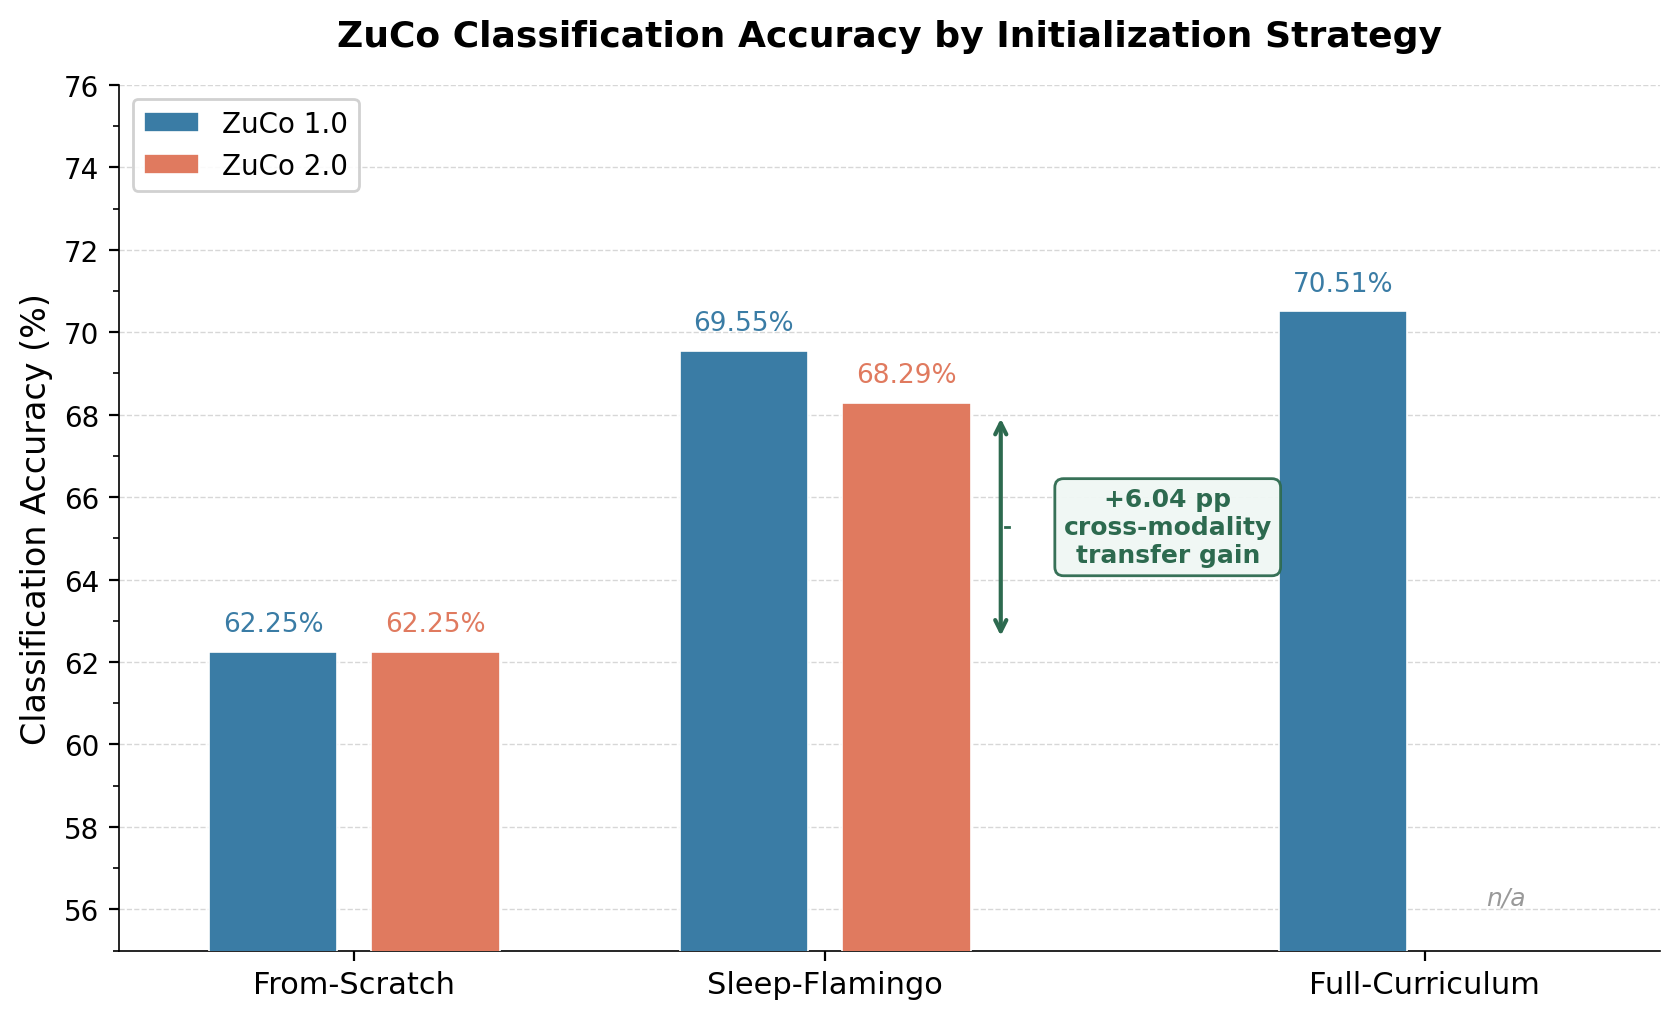
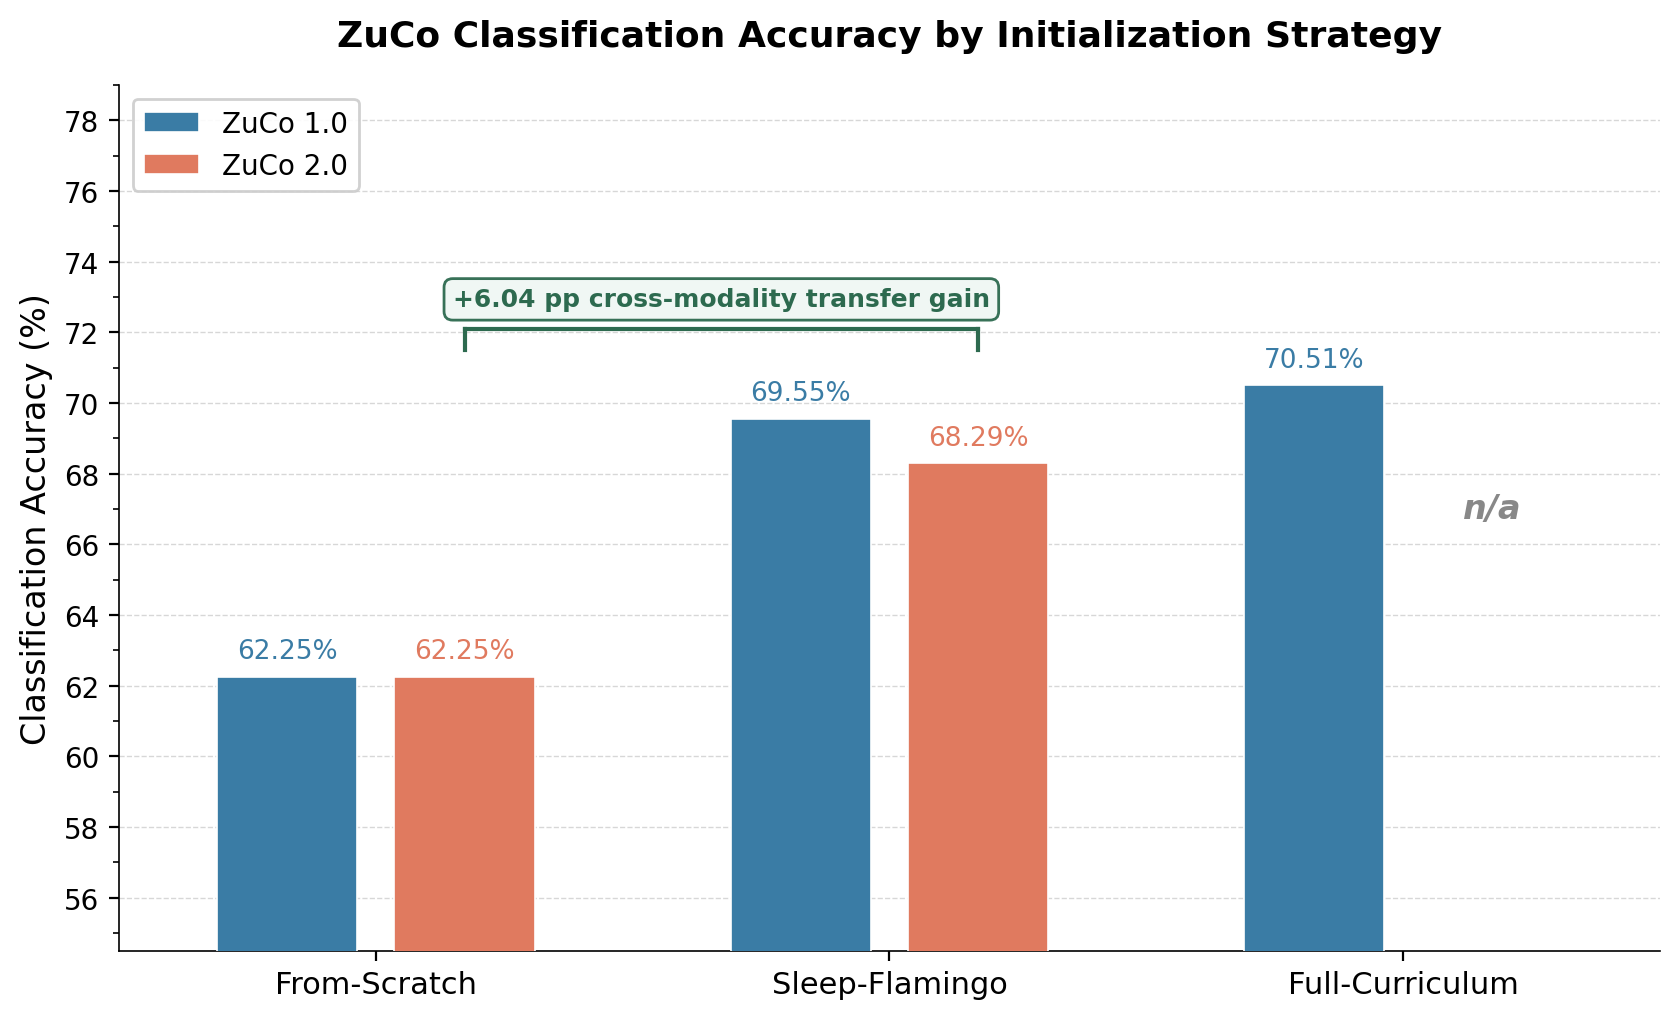
Fix figures after review for conll

diff --git a/conll/paper1_fig1.py b/conll/paper1_fig1.py
@@ -16,7 +16,7 @@ zuco2 = [62.25, 68.29, None]    # ZuCo 2.0 accuracy (%)
 
 # ---------- plot setup ----------
 # Use wider spacing between groups by setting x positions manually
-x = np.array([0.0, 1.1, 2.5])   # extra gap before Full-Curriculum for annotation room
+x = np.array([0.0, 1.1, 2.2])   # evenly spaced groups
 n = len(strategies)
 
 fig, ax = plt.subplots(figsize=(8.5, 5.2), dpi=200)
@@ -63,34 +63,34 @@ for i, v in enumerate(zuco2):
         label_bar(x[i] + bar_w / 2 + gap, v, c2)
 
 # ---------- annotate the +6.04 pp transfer gain ----------
-sf_bar_x = x[1] + bar_w / 2 + gap   # sleep-flamingo ZuCo 2.0 bar center x
-fs_y = zuco2[0]                       # from-scratch  = 62.25
-sf_y = zuco2[1]                       # sleep-flamingo = 68.29
-mid_y = (fs_y + sf_y) / 2
+# Compare ZuCo 2.0 From-Scratch (62.25%) vs ZuCo 2.0 Sleep-Flamingo (68.29%)
+fs_bar_x = x[0] + bar_w / 2 + gap    # from-scratch ZuCo 2.0 bar center x
+sf_bar_x = x[1] + bar_w / 2 + gap    # sleep-flamingo ZuCo 2.0 bar center x
+fs_y = zuco2[0]                        # from-scratch  = 62.25
+sf_y = zuco2[1]                        # sleep-flamingo = 68.29
+mid_x = (fs_bar_x + sf_bar_x) / 2     # midpoint between the two bars
 
-# Vertical double-headed arrow just right of the sleep-flamingo ZuCo 2.0 bar
-arrow_x = sf_bar_x + bar_w / 2 + 0.07
-ax.annotate(
-    "", xy=(arrow_x, sf_y - 0.25), xytext=(arrow_x, fs_y + 0.25),
-    arrowprops=dict(arrowstyle="<->", lw=1.5, color=c_gain),
-    zorder=5,
-)
+# Horizontal bracket connecting the tops of the two ZuCo 2.0 bars
+bracket_y = sf_y + 3.8   # above both bars and value labels
+# Draw horizontal line
+ax.plot([fs_bar_x, sf_bar_x], [bracket_y, bracket_y],
+        lw=1.5, color=c_gain, zorder=5)
+# Draw vertical ticks down from bracket to bar tops
+ax.plot([fs_bar_x, fs_bar_x], [bracket_y, bracket_y - 0.6],
+        lw=1.5, color=c_gain, zorder=5)
+ax.plot([sf_bar_x, sf_bar_x], [bracket_y, bracket_y - 0.6],
+        lw=1.5, color=c_gain, zorder=5)
 
-# Place annotation text in the gap between Sleep-Flamingo and Full-Curriculum groups
-text_x = (x[1] + x[2]) / 2 + 0.1
+# Annotation text above the bracket
 ax.text(
-    text_x, mid_y,
-    "+6.04 pp\ncross-modality\ntransfer gain",
+    mid_x, bracket_y + 0.5,
+    "+6.04 pp cross-modality transfer gain",
     fontsize=9, fontweight="bold", color=c_gain,
-    ha="center", va="center",
+    ha="center", va="bottom",
     bbox=dict(boxstyle="round,pad=0.35", facecolor="#f0f7f4", edgecolor=c_gain,
               alpha=0.95, linewidth=1.0),
     zorder=6,
 )
-
-# Thin horizontal connector from arrow to text box
-ax.plot([arrow_x + 0.02, text_x - 0.38], [mid_y, mid_y],
-        lw=1.0, color=c_gain, ls="-", zorder=4)
 
 # ---------- axes & labels ----------
 ax.set_xticks(x)
@@ -100,7 +100,7 @@ ax.set_title(
     "ZuCo Classification Accuracy by Initialization Strategy",
     fontsize=13, fontweight="bold", pad=14,
 )
-ax.set_ylim(55, 76)
+ax.set_ylim(54.5, 79)
 ax.set_xlim(-0.55, x[-1] + 0.55)
 ax.yaxis.set_major_locator(mticker.MultipleLocator(2))
 ax.yaxis.set_minor_locator(mticker.MultipleLocator(1))
@@ -119,9 +119,13 @@ ax.spines["left"].set_linewidth(0.6)
 ax.spines["bottom"].set_linewidth(0.6)
 
 # Note for missing full-curriculum ZuCo 2.0 value
+# Position at the vertical center of the bar area so it is visually prominent
+na_x = x[2] + bar_w / 2 + gap
+na_y = 67  # vertical center of the bar area (~midpoint of y-axis range)
 ax.text(
-    x[2] + bar_w / 2 + gap, 56.0, "n/a",
-    ha="center", va="bottom", fontsize=9, fontstyle="italic", color="#999999",
+    na_x, na_y, "n/a",
+    ha="center", va="center", fontsize=12, fontstyle="italic",
+    fontweight="bold", color="#888888",
 )
 
 plt.tight_layout()
